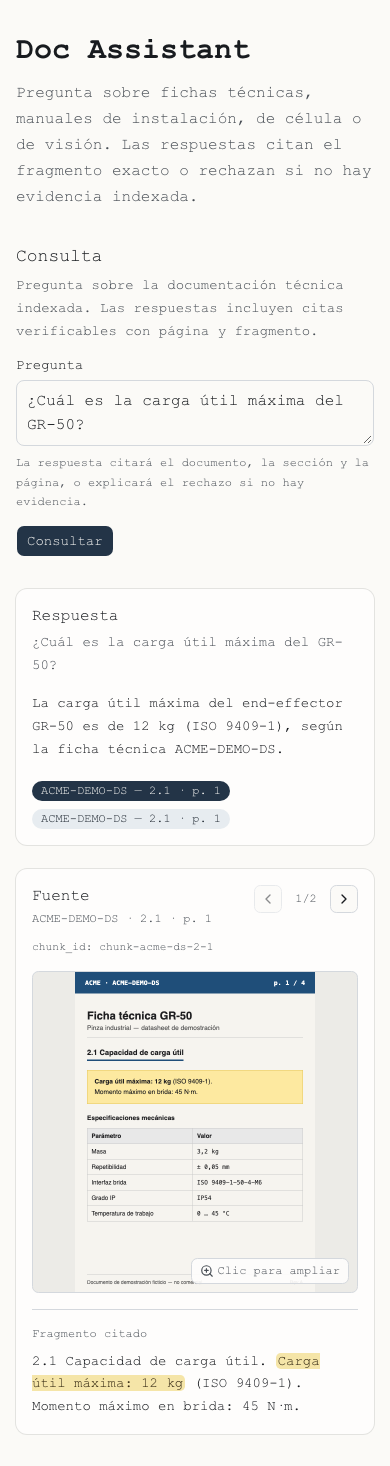
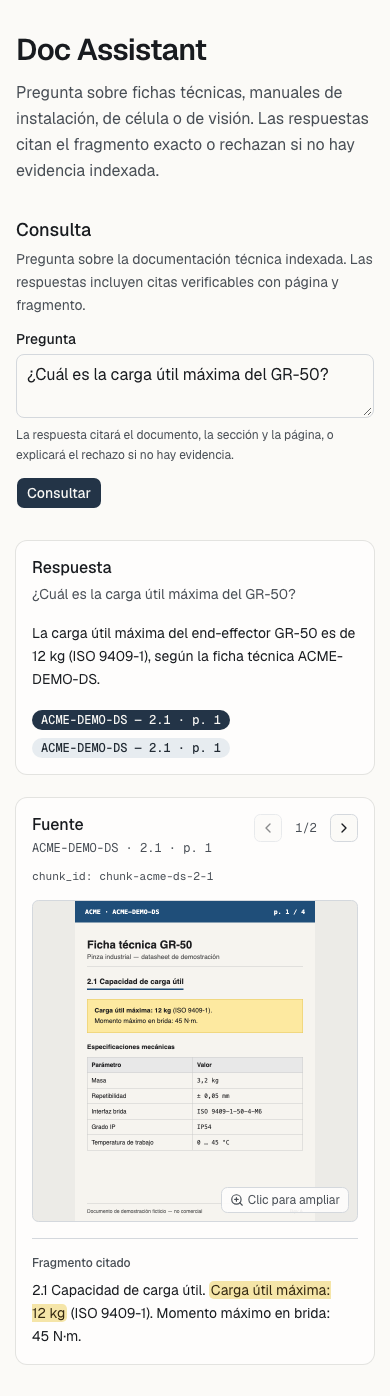
fix(web): variables de fuente Geist sin autorreferencia; e2e espera document.fonts en vez de forzar Courier

diff --git a/apps/web/e2e/ask.spec.ts b/apps/web/e2e/ask.spec.ts
@@ -18,16 +18,13 @@ const VIEWPORTS = {
 } as const
 
 async function stabilize(page: Page) {
+  await page.evaluate(() => document.fonts.ready)
   await page.addStyleTag({
     content: `
       *, *::before, *::after {
         animation: none !important;
         transition: none !important;
         caret-color: transparent !important;
-      }
-      html, body, button, input, textarea, p, h1, h2, h3, span, label, div {
-        font-family: "Courier New", Courier, monospace !important;
-        letter-spacing: 0 !important;
       }
     `,
   })

diff --git a/apps/web/src/app/globals.css b/apps/web/src/app/globals.css
@@ -7,8 +7,8 @@
 @theme inline {
   --color-background: var(--background);
   --color-foreground: var(--foreground);
-  --font-sans: var(--font-sans);
-  --font-mono: var(--font-mono);
+  --font-sans: var(--font-geist-sans);
+  --font-mono: var(--font-geist-mono);
   --font-heading: var(--font-sans);
   --color-sidebar-ring: var(--sidebar-ring);
   --color-sidebar-border: var(--sidebar-border);

diff --git a/apps/web/src/app/layout.tsx b/apps/web/src/app/layout.tsx
@@ -4,12 +4,12 @@ import { Geist, Geist_Mono } from "next/font/google"
 import "./globals.css"
 
 const geistSans = Geist({
-  variable: "--font-sans",
+  variable: "--font-geist-sans",
   subsets: ["latin"],
 })
 
 const geistMono = Geist_Mono({
-  variable: "--font-mono",
+  variable: "--font-geist-mono",
   subsets: ["latin"],
 })
 
